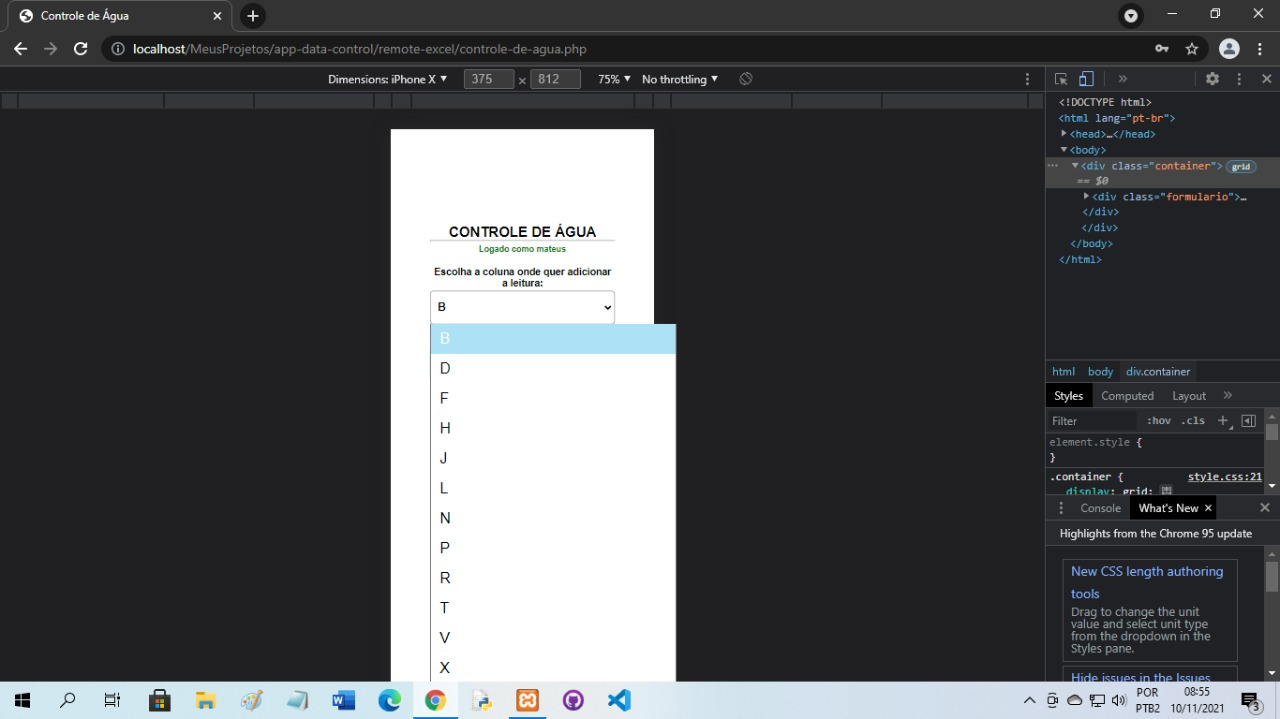
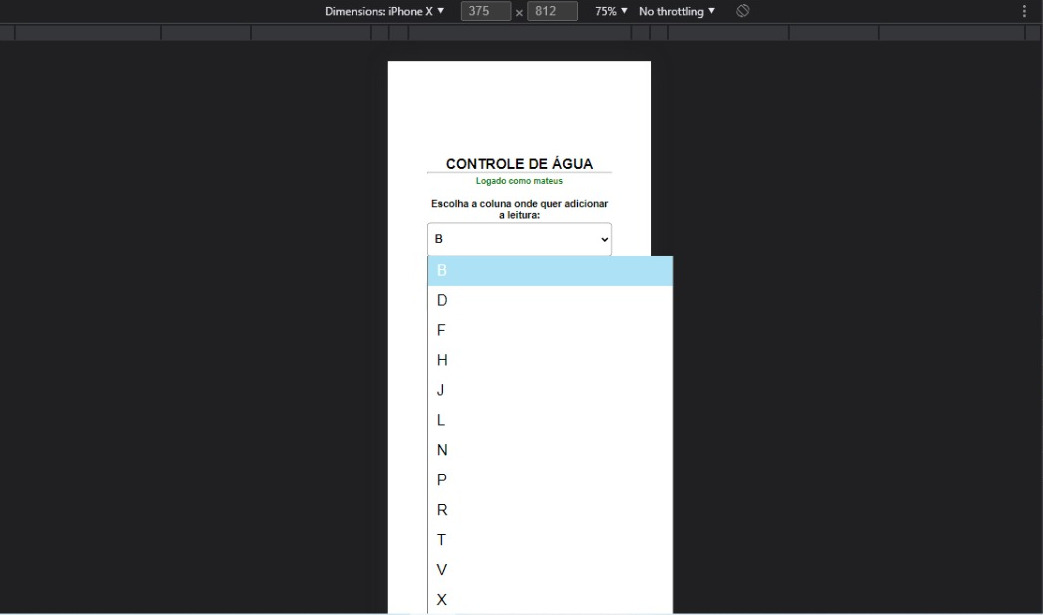
upload project images in README.md

Changed region(s): [[0.0, 0.0, 1.0, 1.0], [0.9818, 0.0, 1.0, 0.0309]]

diff --git a/README.md b/README.md
@@ -2,8 +2,17 @@
 
 App for data control using PHP integrated with EXCEL made for a condominium be able to publish your water data in an Excel table remotely, called Excel Remoto. The project uses a library called PHPSpreadSheet (https://phpspreadsheet.readthedocs.io/en/latest/) for integration with Excel, It's also owns user login system, e etc.
 
-#### Remote Excel Login
-![Remote Excel Login](./project-img/remote-excel-1.jpg)
+#### Remote Excel Login Display
+![Remote Excel Login Display](./project-img/remote-excel-1.jpg)
+
+#### Remote Excel Water Control Display
+![Remote Excel Water Control Display](./project-img/remote-excel-2.jpg)
+
+#### Remote Excel Choosing which Excel cell to put the data in
+![Remote Excel Choosing which Excel cell to put the data in](./project-img/remote-excel-3.jpg)
+
+#### Remote Excel User Registration Display
+![Remote Excel User Registration Display](./project-img/remote-excel-4.jpg)
 
 Project started on 07/20/2021 by Mateus Emanuel Silva Macedo, owner of this GitHub account, under the guidance of his professor at IFRN Campus Mossoró; Clayton Maciel Costa, using the following technologies: PHP, HTML and CSS.
 
